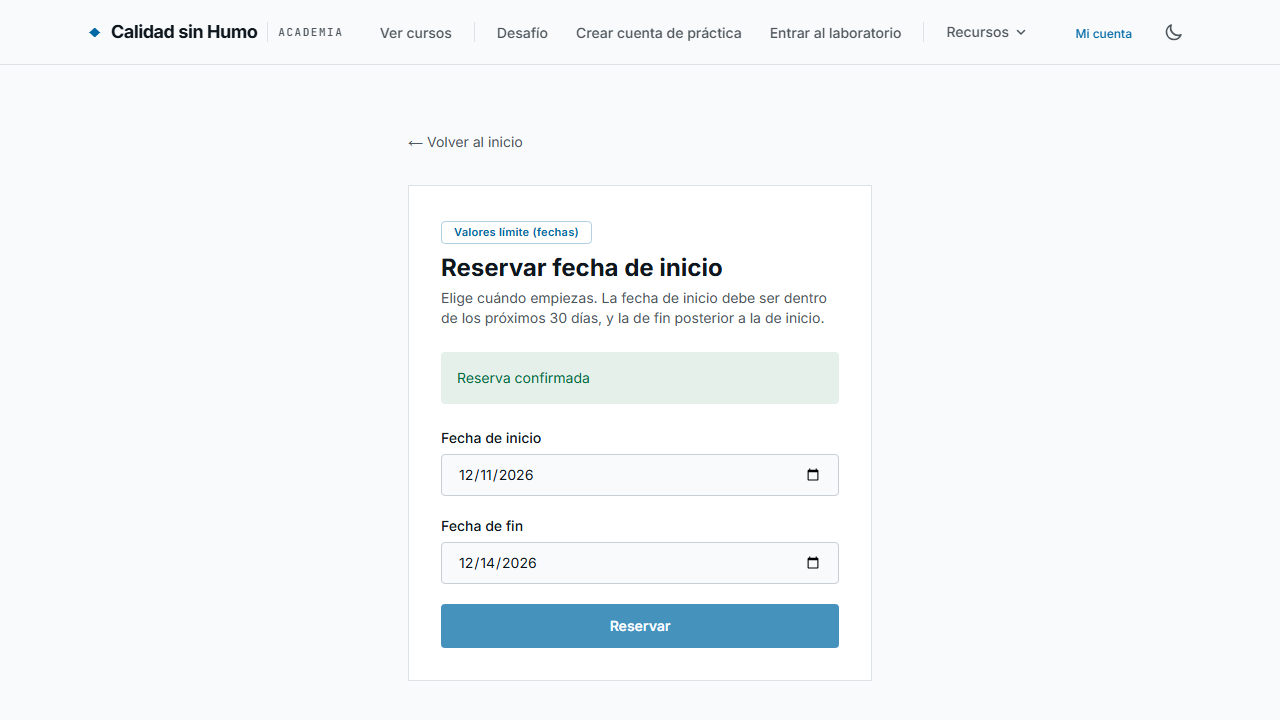
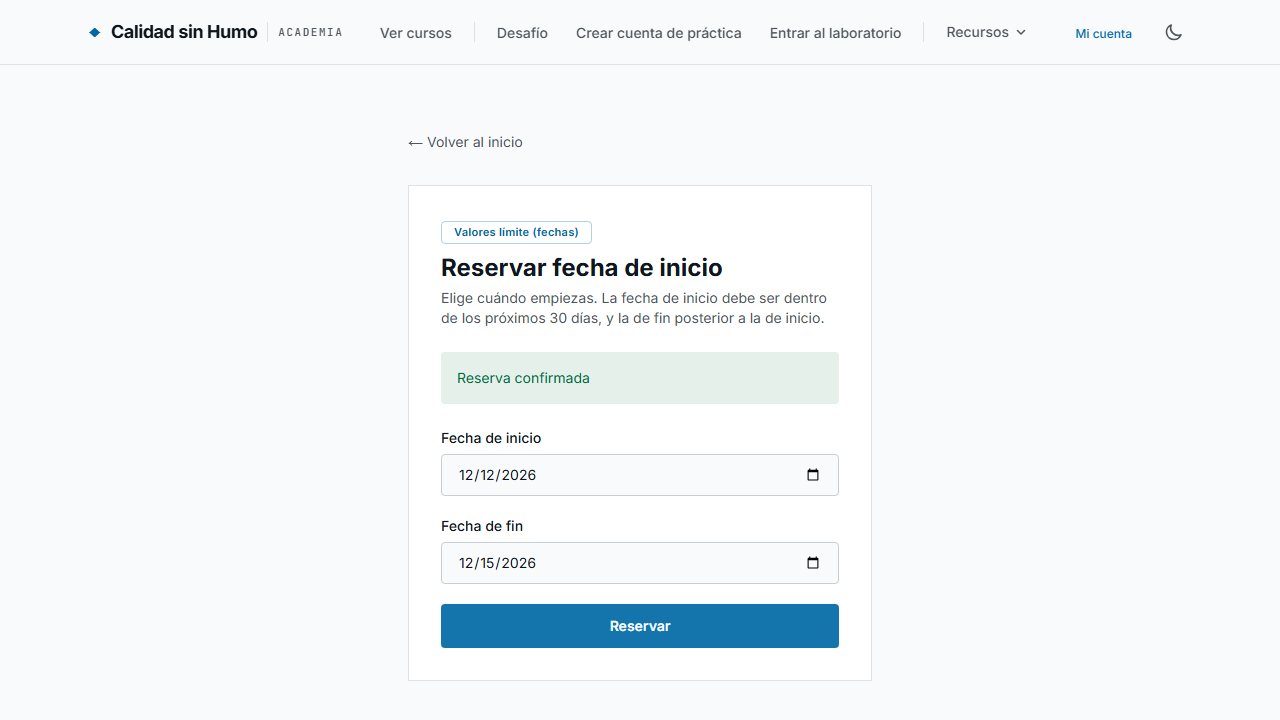
[MOD] Reporte de bugs ampliado a 15 y evidencia de reserva corregida

Changed region(s): [[0.3438, 0.825, 0.6562, 0.9167], [0.375, 0.7639, 0.4375, 0.7944], [0.375, 0.6417, 0.4375, 0.6722]]

diff --git a/tests/evidencia/capturas.spec.ts b/tests/evidencia/capturas.spec.ts
@@ -7,11 +7,11 @@ import { test, expect, Page, Locator } from '@playwright/test';
 const OUT = 'docs/evidencia';
 const sufijo = () => `${Date.now()}`;
 
+// El servidor calcula "hoy" en UTC: las fechas de reserva se calculan en UTC
 function fecha(diasDesdeHoy: number): string {
   const d = new Date();
-  d.setDate(d.getDate() + diasDesdeHoy);
-  const p = (n: number) => String(n).padStart(2, '0');
-  return `${d.getFullYear()}-${p(d.getMonth() + 1)}-${p(d.getDate())}`;
+  d.setUTCDate(d.getUTCDate() + diasDesdeHoy);
+  return d.toISOString().slice(0, 10);
 }
 
 // Dibuja un recuadro rojo y una etiqueta al costado del elemento donde ocurre el defecto

diff --git a/docs/reporte-de-bugs.md b/docs/reporte-de-bugs.md
@@ -3,7 +3,7 @@
 Producto: https://playground.calidadsinhumo.com · Especificación: `/documentacion`  
 Fecha de ejecución: 2026-11-12 · Navegador/cliente: Playwright (Chromium) y navegación manual.
 
-Resumen: 10 discrepancias contra la spec. 6 se reprodujeron por API con `tests/api/sondeo.spec.ts` (cada test afirma lo que exige la spec y falla mientras el bug exista; los controles de límite de contraseña, 64 aceptada y 7 rechazada, pasan). 4 se encontraron por UI; sus capturas, con el defecto resaltado, están en `docs/evidencia/` y se generan con `npx playwright test tests/evidencia`.
+Resumen: 15 discrepancias contra la spec. BUG-01 a BUG-06 se reprodujeron por API con `tests/api/sondeo.spec.ts` (cada test afirma lo que exige la spec y falla mientras el bug exista; los controles de límite de contraseña, 64 aceptada y 7 rechazada, pasan). BUG-07 a BUG-10 se encontraron por UI y sus capturas, con el defecto resaltado, están en `docs/evidencia/` (se generan con `npx playwright test tests/evidencia`). BUG-11 a BUG-15 salieron al ejecutar los casos de `docs/casos-de-prueba.md` con `tests/evidencia/ejecucion-casos.spec.ts`, que mide y no afirma (termina en verde); sus resultados se leen en la salida `CPxx|estado|resumen` y las capturas, cuando son de UI, están en `docs/evidencia/`.
 
 | ID | Título | REQ | Severidad | Capa |
 |---|---|---|---|---|
@@ -17,6 +17,11 @@ Resumen: 10 discrepancias contra la spec. 6 se reprodujeron por API con `tests/a
 | BUG-08 | La reserva acepta un inicio a 31 días | D02 | Baja | UI |
 | BUG-09 | El registro exitoso no limpia el formulario | R06 | Baja | UI |
 | BUG-10 | El login se bloquea tras 4 intentos fallidos, no 5 | L03 | Media | UI |
+| BUG-11 | El email sin dominio o sin punto se acepta | R03 | Baja | API |
+| BUG-12 | El botón de login se habilita unos 5 s antes de que el timer llegue a 0 | L03 | Baja | UI |
+| BUG-13 | Completado y Certificado pasan a En progreso | P02, P03 | Media | API |
+| BUG-14 | Cerrar sesión no reinicia el progreso | S02 | Media | UI |
+| BUG-15 | El CV acepta cualquier archivo, de cualquier tipo y tamaño | U02, U03 | Media | UI |
 
 ---
 
@@ -104,14 +109,14 @@ Resumen: 10 discrepancias contra la spec. 6 se reprodujeron por API con `tests/a
 
 ### BUG-08 · La reserva acepta un inicio a 31 días
 - **REQ violado:** REQ-D02 — "La fecha de inicio debe estar entre hoy y 30 días en el futuro (inclusive). Una fecha a 31 días debe ser rechazada."
-- **Comportamiento esperado:** una fecha de inicio a 31 días se rechaza con un mensaje de error.
-- **Comportamiento real:** se muestra "Reserva confirmada".
+- **Comportamiento esperado:** hoy + 30 se acepta y hoy + 31 se rechaza con un mensaje de error.
+- **Comportamiento real:** el límite superior está desplazado un día. Con "hoy" calculado en UTC, que es como lo calcula el servidor: +30 se acepta, **+31 se acepta** ("Reserva confirmada") y +32 se rechaza ("La fecha de inicio no puede superar los 30 días").
 - **Pasos para reproducir:**
   1. Abrir `/reserva`.
-  2. Fecha de inicio: hoy + 31 días (ejecución del 2026-11-11: 2026-12-12); fecha de fin: tres días después.
+  2. Fecha de inicio: hoy (UTC) + 31 días (ejecución del 2026-11-12 UTC: 2026-12-13); fecha de fin: tres días después.
   3. Pulsar "Reservar".
-- **Evidencia:** `docs/evidencia/cp05-31-dias.png` (inicio 2026-12-12 = hoy + 31 días, mensaje "Reserva confirmada" resaltado). Control: `docs/evidencia/cp06-30-dias.png` (hoy + 30 días se acepta, como exige la spec).
-- **Severidad y por qué:** Baja. Acepta una fecha fuera del rango permitido, pero no afecta a otros flujos.
+- **Evidencia:** `docs/evidencia/cp05-31-dias.png` (inicio 2026-12-13 = hoy UTC + 31, "Reserva confirmada" resaltado). Controles: `docs/evidencia/cp06-30-dias.png` (+30 aceptado) y caso CP-93 (+32 rechazado); casos CP-50, CP-51 y CP-93 en `docs/casos-de-prueba.md`. Nota: una primera lectura con fechas en hora local de Lima daba un día de diferencia; por eso las fechas se calculan en UTC.
+- **Severidad y por qué:** Baja. Acepta una fecha un día fuera del rango permitido, pero no afecta a otros flujos.
 - **Capa donde se detecta:** UI
 
 ### BUG-09 · El registro exitoso no limpia el formulario
@@ -137,9 +142,67 @@ Resumen: 10 discrepancias contra la spec. 6 se reprodujeron por API con `tests/a
 - **Evidencia:** `docs/evidencia/cp02-bloqueo.png` (botón "Bloqueado tras 4 intentos (spec: 5)"). Reproducido en 3 ejecuciones con correos distintos (`BLOQUEADO_TRAS=4`, espaciadas más de 30 s) con `tests/evidencia/capturas.spec.ts`, y por el test `BUG? REQ-L03 el 5.o intento fallido debe bloquear la cuenta`.
 - **Severidad y por qué:** Media. El bloqueo ocurre antes de lo especificado, y el umbral de seguridad documentado no se cumple.
 - **Capa donde se detecta:** UI
-- **No verificado:** que el botón se rehabilite exactamente cuando el temporizador llega a 0 (tercera viñeta de REQ-L03).
+- **Evidencia adicional (API):** casos CP-76 (cuenta registrada) y CP-87 (cuenta de prueba del sitio): con 4 intentos fallidos la 4.ª respuesta de `POST /api/login` ya es 429; el login correcto siguiente también devuelve 429. Secuencia observada: `401, 401, 401, 429, 429, 429`; la spec exige que 4 fallos + 1 acierto + 1 fallo no bloqueen.
+- **Seguimiento:** la rehabilitación del botón se midió después y es el BUG-12.
+
+### BUG-11 · El email sin dominio o sin punto se acepta
+- **REQ violado:** REQ-R03 — "Emails como usuario@ o usuario no son válidos." y "debe contener un @ seguido de un dominio con punto".
+- **Comportamiento esperado:** `usuario@` y un dominio sin punto se rechazan, igual que `usuario`.
+- **Comportamiento real:** `POST /api/register` responde 201 con `usuario@` y con `lucia.mamani@yopmail`. El control `usuario` sí se rechaza con 422 ("El email no tiene un formato válido"), y `@dominio.com` también.
+- **Pasos para reproducir:**
+  1. `POST /api/register` con nombre `Marcela Quispe Huamán`, contraseña `Lima#2026qa`, edad 29 y el email `usuario@`.
+  2. Repetir con `lucia.mamani@yopmail`.
+- **Evidencia:** casos CP-13 (`usuario@` → 201) y CP-15 (`lucia.mamani@yopmail` → 201) en `docs/casos-de-prueba.md`, medidos con `tests/evidencia/ejecucion-casos.spec.ts`. También se aceptan `a@.com` (CP-69), `a@b.` (CP-70), `a@@b.com` (CP-71) y un email con espacio (CP-72); la spec no los nombra, pero contradicen "un @ seguido de un dominio con punto".
+- **Severidad y por qué:** Baja. Entran cuentas con emails inválidos, pero no se compromete ningún flujo; sí afecta a cualquier envío posterior al email.
+- **Capa donde se detecta:** API
+
+### BUG-12 · El botón de login se habilita unos 5 s antes de que el timer llegue a 0
+- **REQ violado:** REQ-L03 — "El botón se habilita exactamente cuando el timer llega a 0".
+- **Comportamiento esperado:** el botón sigue deshabilitado mientras el timer muestra segundos restantes y se habilita al llegar a 0 (30 s de bloqueo).
+- **Comportamiento real:** el timer arranca en 30 y baja con normalidad (26 lecturas distintas, siempre decreciente), pero el botón se habilita con el timer todavía en 5: bloqueo observado de unos 25 s.
+- **Pasos para reproducir:**
+  1. Abrir `/login` y provocar el bloqueo (4 intentos fallidos con un email inexistente, ver BUG-10).
+  2. Observar el botón y el recuadro "Puedes intentar de nuevo en N segundos" cada 100 ms.
+- **Evidencia:** caso CP-78 (muestras `[ms, botón deshabilitado, timer]`: `[24915,true,6],[25005,true,6],[25101,false,5]`) con `tests/evidencia/ejecucion-casos.spec.ts`; CP-24 y CP-77 pasan (botón deshabilitado y timer visible y decreciente). Una exploración previa con otro email también lo habilitó a los ~26 s.
+- **Severidad y por qué:** Baja. El bloqueo dura menos de lo documentado, pero la protección sigue existiendo.
+- **Capa donde se detecta:** UI
+
+### BUG-13 · Completado y Certificado pasan a En progreso
+- **REQ violado:** REQ-P02 (Completado solo admite Certificado; Certificado es estado final) y REQ-P03 — "Cualquier transición no listada arriba debe ser rechazada con un mensaje de error."
+- **Comportamiento esperado:** `comenzar` sobre un curso Completado o Certificado se rechaza.
+- **Comportamiento real:** responde 200 y el estado pasa a `en-progreso` en ambos casos.
+- **Pasos para reproducir:**
+  1. Registrar y loguear un usuario nuevo; inscribir `fundamentos`.
+  2. `POST /api/progress` con `comenzar` y `completar` (y, para el segundo caso, `certificar`).
+  3. `POST /api/progress` con `{ courseId: "fundamentos", action: "comenzar" }`.
+- **Evidencia:** casos CP-62 (Completado → En progreso: 200, `en-progreso`) y CP-63 (Certificado → En progreso: 200, `en-progreso`). Mismo patrón que BUG-05. Los demás rechazos (CP-41, 43, 44, 60, 61, 64) sí devuelven error.
+- **Severidad y por qué:** Media. Un certificado emitido puede volver a En progreso y generar otro después.
+- **Capa donde se detecta:** API
+
+### BUG-14 · Cerrar sesión no reinicia el progreso
+- **REQ violado:** REQ-S02 — "Al cerrar sesión, todo el progreso del estudiante se reinicia. Al volver a iniciar sesión, el estudiante empieza sin cursos inscritos."
+- **Comportamiento esperado:** tras cerrar sesión y volver a entrar, `/mi-progreso` muestra "Aún no tienes cursos".
+- **Comportamiento real:** el curso inscrito antes de cerrar sesión sigue listado.
+- **Pasos para reproducir:**
+  1. Iniciar sesión con la cuenta de prueba del sitio, inscribir `fundamentos` en `/cursos` y comprobar que aparece en `/mi-progreso`.
+  2. Pulsar "Cerrar sesión".
+  3. Entrar de nuevo (navegación interna, sin recargar) y abrir `/mi-progreso`.
+- **Evidencia:** caso CP-49 (antes: listado; después: no vacío). La cuenta de prueba es compartida y su estado puede estar modificado por otras personas; el caso inscribe un curso y comprueba lo que queda listado. Recargar la página sí borra el estado, por lo que se usó navegación interna.
+- **Severidad y por qué:** Media. Incumple una regla explícita de sesión y deja datos de un estudiante visibles para el siguiente.
+- **Capa donde se detecta:** UI
+
+### BUG-15 · El CV acepta cualquier archivo, de cualquier tipo y tamaño
+- **REQ violado:** REQ-U02 — "Solo se aceptan archivos PDF." y REQ-U03 — "El tamaño máximo es 2 MB (inclusive). Un archivo de 2.5 MB debe rechazarse."
+- **Comportamiento esperado:** un `.png`, un `.txt`, un `.pdf` cuyo contenido no es PDF y un archivo vacío se rechazan; también uno de 2 097 153 bytes y uno de 2,5 MB.
+- **Comportamiento real:** en todos los casos aparece "CV subido correctamente". Solo se comprobó el resultado visible; la spec no define el MB y aquí se interpreta como 2 097 152 bytes (ese tamaño exacto se acepta, como corresponde).
+- **Pasos para reproducir:**
+  1. Abrir `/perfil` y elegir un archivo `notas.txt` en el campo del CV (el input no tiene atributo `accept`).
+  2. Pulsar "Subir CV".
+- **Evidencia:** `docs/evidencia/cp58-cv-txt.png`, `cp88-cv-falso.png`, `cp89-cv-2mb-mas-1.png`, `cp90-cv-2-5mb.png`; casos CP-58 (`.png` y `.txt`), CP-88 (`.pdf` con texto plano), CP-89 (2 097 153 bytes), CP-90 (2,5 MB) y CP-91 (0 bytes; la spec no lo nombra, se registra como observación).
+- **Severidad y por qué:** Media. Las dos reglas de la subida no se aplican, así que la pantalla confirma como correcto un archivo que debía rechazarse.
+- **Capa donde se detecta:** UI
 
 ---
 
 ## Pendientes de reproducir (borrar al cerrarlos)
-- REQ-L03: comprobar que el botón se habilita exactamente cuando el timer llega a 0.
+- REQ-D01 y REQ-D03: fechas obligatorias y fin igual o anterior al inicio (CP-52 y CP-53, sin ejecutar). CP-81 solo cubre fin = inicio + 1.
